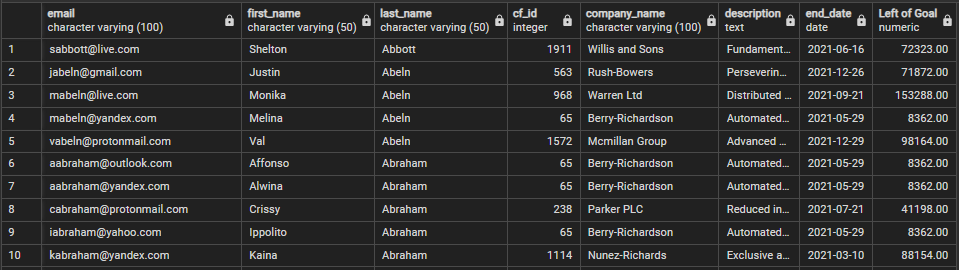
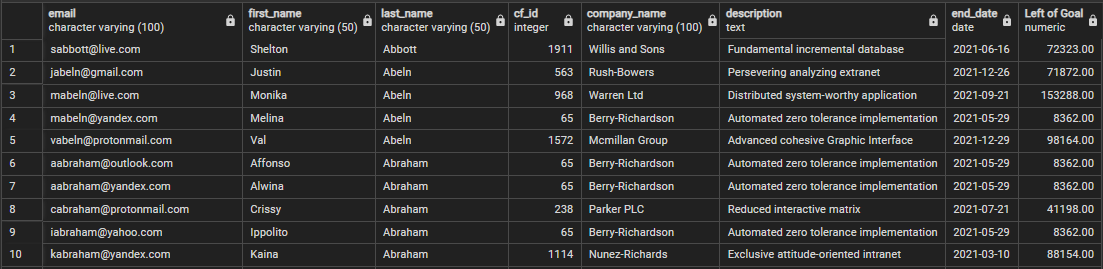
Minor revision of README.md and column widths of tables

diff --git a/README.md b/README.md
@@ -6,7 +6,7 @@ This project focused on the application of Python libraries, like Pandas, and ho
   - [Resources](#resources)
   - [Challenge Overview](#challenge-overview)
   - [GitHub Repo Branches](#github-repo-branches)
-- [Database Engineering and Analysis Results](#database-engineering-and-analysis-results)
+- [Data Engineering and Analysis Results](#data-engineering-and-analysis-results)
   - [Deliverable 1 and 2](#deliverable-1-and-2)
   - [Deliverable 3](#deliverable-3)
   - [Deliverable 4](#deliverable-4)
@@ -57,18 +57,20 @@ main branch
   &emsp; |&rarr; [./Data/email_contacts_remaining_goal_amount.png](./Data/email_contacts_remaining_goal_amount.png)  
   &emsp; |&rarr; [./Data/email_backers_remaining_goal_amount.png](./Data/email_backers_remaining_goal_amount.png)  
 
-## Database Engineering and Analysis Results
-The Entity Relationship Diagrams (ERDs) that mimicked relationships in our crowdfunding databases can be reviewed in Fig. 1, which I created by using a free Quick DBD canvas after completing the Extract and Transform phases. During the process, we mainly used Pandas, Numpy, json (JavaScript Object Notation), and re (regular expression or regex) modules to extract, clean, and transform our initial databases. And afterward, we loaded and explored the cleaned databases by using an open source DBMS, PostgreSQL and pgAdmin, created SQL schema, tables, and attributes based on our ERD, and wrote some SQL queries for further exploring the database.
+## Data Engineering and Analysis Results
+The Entity Relationship Diagrams (ERDs) that mimicked relationships in our crowdfunding databases can be reviewed in Fig. 1, which I created by using a free Quick DBD canvas after completing the Extract and Transform phases. During the process, we mainly used Pandas, Numpy, json (JavaScript Object Notation), and re (regular expression or regex) modules to extract, clean, and transform our initial databases. And afterward, we loaded and explored the cleaned databases by using an open source DBMS, PostgreSQL and pgAdmin, created SQL schema, tables, and attributes based on our ERDs, and wrote some SQL queries for further exploring the database.
 
 ![Fig. 1](./Data/crowdfunding_db_relationships.png)\
 **Fig. 1 Entity Relationship Diagrams of Crowdfunding ETL databases**
 
 ### Deliverable 1 and 2
-The corresponding Jupyter Notebook source codes can be referred in [ETL_Practice.ipynb](./ETL_Practice.ipynb) and [Extract_Transform_final_code.ipynb](./Extract_Transform_final_code.ipynb). I used a few code refactoring approaches that might be unique when completing the Extract and Transform steps, for example:
+The corresponding Jupyter Notebook source codes can be referred in [ETL_Practice.ipynb](./ETL_Practice.ipynb) and [Extract_Transform_final_code.ipynb](./Extract_Transform_final_code.ipynb). I used a few code refactoring approaches that might be unique when completing the Extract and Transform steps in addition to some efficient techniques that we have studied, for example:
 
-- `list()`, `insert()`, and `df.reindex()` for manipulating the position of columns and reordering the columns in some of our cleaned dataframes.
-- `df.equals()` and `df.compare()` for comparing dataframes created by regex vs dictionary methods. I also applied simplified regex capturing groups when transforming and cleaning the *backers* dataframe.
-- `try` and `except` for bypassing errors and allowing multiple executions after dropping certain columns.
+- `list()`, `df.iloc`, `insert()`, and `df.reindex()` for manipulating the position of columns and reordering columns in some of our cleaned dataframes.
+- `df.equals()` and `df.compare()` for comparing two dataframes created by regex vs dictionary methods and ensuring they were identical. I also applied simplified regex capturing groups when transforming and cleaning the *backers* dataframe.
+- `try` and `except` for bypassing errors and allowing multiple executions after dropping certain columns from a dataframe.
+- `astype(np.int64)` besides `pd.to_numeric()` when converting the data type of the *contact_id* column to *int64*.
+- *underscore* instead of *i* as a throwaway index for iterating over tuples as in `for _, row in backer_info_df.iterrows()`.
 
 The cleaned crowdfunding databases after the transformation step were saved into csv formatted files at the end of the Transform step as follows.
 
@@ -135,7 +137,7 @@ ORDER BY backers_count DESC;
 SELECT * FROM backers_by_cf_id;
 ```
 
-- Deliverable 4-2 was similarly accomplished by using the following simplified query, which included `COUNT(backer_id)` clause. And for confirming the accuracy of the outcomes, I created a comparison table (**Table 2**) by executing a separate SQL query to make sure if both methods matched. **Table 2** reconfirmed that our results generated by two different queries matched completely.
+- Deliverable 4-2 was similarly accomplished by using the following simplified query, which included `COUNT(backer_id)` and `GROUP BY cf_id` clauses. And for validating the accuracy of the outcomes, I created a comparison table (**Table 2**) by executing a separate SQL query to make sure whether both methods matched. **Table 2** reconfirmed that our results generated by two different queries matched completely.
 
 ```
 SELECT cf_id, COUNT(backer_id) AS count_fr_backers
@@ -221,4 +223,5 @@ All deliverables have been completed and summarized according to Module 8 assign
 [pandas.Series.str.split](https://pandas.pydata.org/docs/reference/api/pandas.Series.str.split.html)\
 [pandas.DataFrame.equals](https://pandas.pydata.org/docs/reference/api/pandas.DataFrame.equals.html#pandas.DataFrame.equals)\
 [Using OR in SQLAlchemy](https://stackoverflow.com/questions/7942547/using-or-in-sqlalchemy)\
-[How to change Order of Columns in Pandas DataFrame?](https://pythonexamples.org/how-to-change-order-of-columns-in-pandas-dataframe/#:~:text=Change%20Order%20of%20DataFrame%20Columns%20in%20Pandas&text=You%20can%20change%20the%20order,rearranged%20column%20list%20as%20argument.&text=The%20reindex()%20function%20returns,the%20given%20order%20of%20columns.)
+[How to change Order of Columns in Pandas DataFrame?](https://pythonexamples.org/how-to-change-order-of-columns-in-pandas-dataframe/#:~:text=Change%20Order%20of%20DataFrame%20Columns%20in%20Pandas&text=You%20can%20change%20the%20order,rearranged%20column%20list%20as%20argument.&text=The%20reindex()%20function%20returns,the%20given%20order%20of%20columns.)\
+[Python loop using underscore and input](https://stackoverflow.com/questions/39188827/trying-to-understand-python-loop-using-underscore-and-input)
